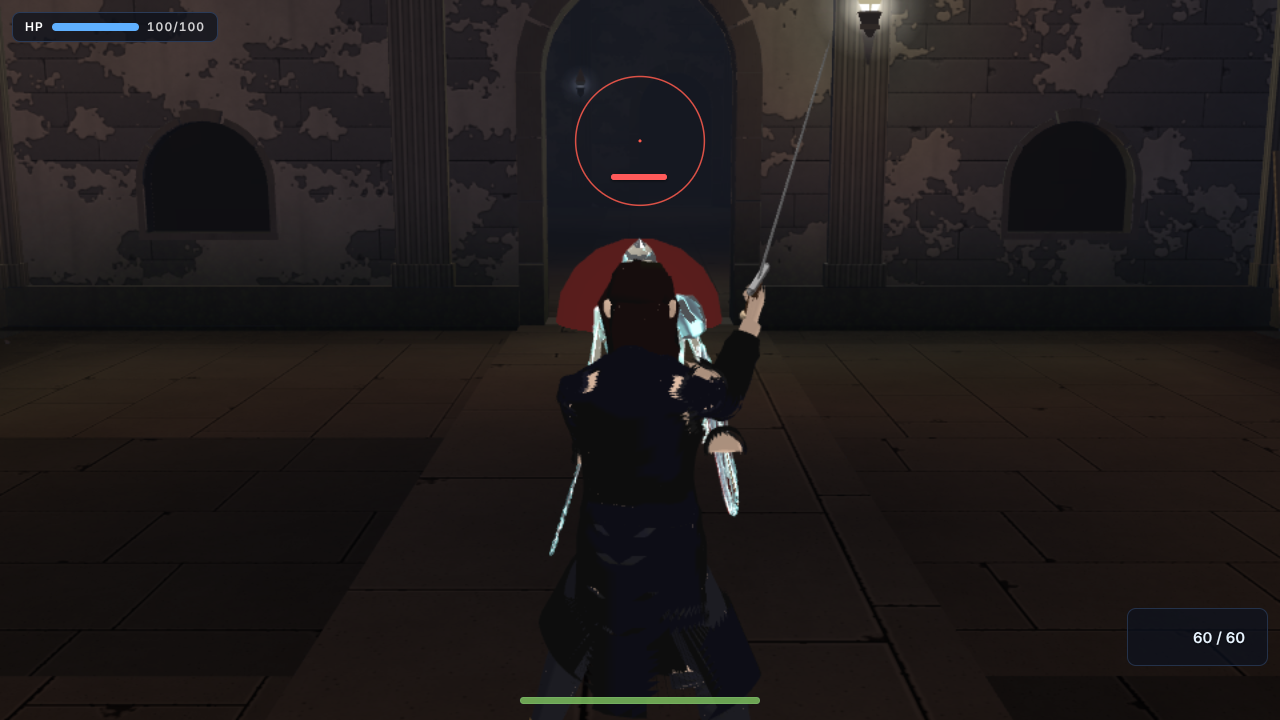
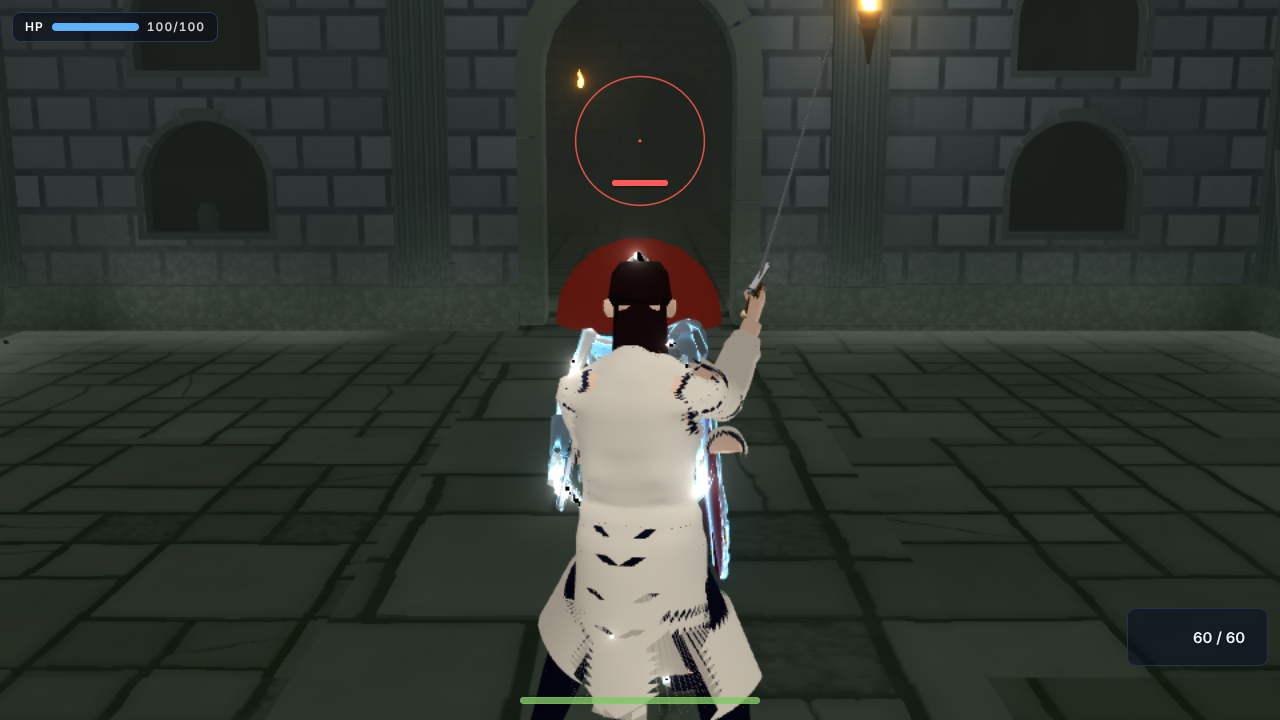
A fourth sword art, wild; Fallen Angel in gen-7 with Lucien's pale coat
wild: a brawler with a blade, the anime sword's reach with none of its composure (the hips spun
past the pass-through, the weight and the off arm thrown furthest, the anticipation and the
finish held least), held to the laws every art keeps. The Fallen Angel example's citadel is
dressed by a gothic night cube read in gen-7 on the ashlar bones, Lucien's coat is pale against
the dark, and his kit is the template's swung wild.

Claude-Session: https://claude.ai/code/session_01TGh5DzdiWrkt6rK5jhLNiC

diff --git a/control/lib/graph/polygonizer/hero-swing-body.test.js b/control/lib/graph/polygonizer/hero-swing-body.test.js
@@ -293,8 +293,11 @@ describe('the sword arts', () => {
     return { nodes, grip: P(g.sockets.grip.origin), end: P(g.sockets.tip?.origin || g.sockets.focal?.origin), head: [0, 1, 2].map((k) => (nodes.headBase[k] + nodes.headTop[k]) / 2) };
   };
   const cases = [['chop', 'sword', 'normal'], ['rising', 'sword', 'normal'], ['cleave', 'greatsword', 'heavy']];
-  it('names its registers', () => expect(SWORD_ARTS).toEqual(['realistic', 'inspired', 'freestyle']));
-  for (const art of ['inspired', 'freestyle']) for (const [word, item, cls] of cases) {
+  it('names its registers', () => expect(SWORD_ARTS).toEqual(['realistic', 'inspired', 'freestyle', 'wild']));
+  // (every art is held to the laws: a new register is a new style, and a style can break a leg's reach or take the blade
+  // through the head)
+  const ARTS_HELD = SWORD_ARTS.filter((a) => a !== 'realistic');
+  for (const art of ARTS_HELD) for (const [word, item, cls] of cases) {
     it(`${art} ${word}: every key's legs reach, the blade clear of the head and the floor`, () => {
       const hero = heroOf(item), R = validateRig(expandLayeredManifest({ kind: 'layered', hero }).recipe.rig), [g] = gearMounts(hero, R);
       const keys = swingBody(word, cls, swingClipKeys(word, cls, { base: STRUCTURED_SWING_BASE }), R, rigNodesAt, art);
@@ -312,7 +315,7 @@ describe('the sword arts', () => {
   }
   // (and between the keys: an art's clip, eased through its held anticipation and its fast cut, keeps the blade off the
   // head and out of the floor at every sample; one forehand, the two-handed cleave, the low upswing)
-  for (const art of ['inspired', 'freestyle']) it(`${art}: the blade clear of the head and above the floor all through its clips`, () => {
+  for (const art of ARTS_HELD) it(`${art}: the blade clear of the head and above the floor all through its clips`, () => {
     const hero = heroOf('sword'), R = validateRig(expandLayeredManifest({ kind: 'layered', hero }).recipe.rig), [g] = gearMounts(hero, R);
     const M = lowerCombos(BASIC_COMBOS), ctx = { R, cls: 'normal', base: STRUCTURED_SWING_BASE, grip: [], own: 'chop', body: true, style: art, timing: artTiming('normal', art), contact: CONTACT, layeredClip, rigNodesAt, plantedFoot, swingClipKeys, fitSwing, swingPhases, HELD_SWINGS: MOVE_SWINGS };
     for (const id of ['cut-1', 'cleave', 'launcher']) {
@@ -338,7 +341,7 @@ describe('the sword arts', () => {
     expect(followOf('inspired').facing).toBeLessThan(followOf('freestyle').facing);
   });
   it('the timing holds the anticipation at the cock and the finish at the follow-through, the strike inside its window', () => {
-    for (const art of ['inspired', 'freestyle']) {
+    for (const art of ARTS_HELD) {
       const T = artTiming('normal', art), N = 6;
       expect(T.strike).toBeGreaterThan(T.window[0]);
       expect(T.strike).toBeLessThan(T.window[1]);

diff --git a/control/lib/graph/polygonizer/hero-swing-body.js b/control/lib/graph/polygonizer/hero-swing-body.js
@@ -68,9 +68,22 @@ export const SWING_STYLES = Object.freeze({
       backhand: { ready: { facing: -20, w: 0 }, coil: { facing: 26, w: -0.05 }, cock: { facing: 52, w: -0.09 }, load: { facing: 58, w: -0.1 }, strike: { facing: -50, w: 0.13 }, follow: { facing: -82, w: 0.15 }, recover: { facing: -26, w: 0.05 } },
     }),
     timing: Object.freeze({ wind: 1.6, act: 0.22, after: 0.9, settle: 0.7, hold: Object.freeze({ light: 0.35, normal: 0.7, heavy: 1.3 }), finish: 2.0 }) }),
+  // WILD (a brawler with a blade: nothing held, everything thrown): the freestyle's reach with none of its composure. The
+  // blade is hauled furthest back and the whole body goes after it: the hips spun past the pass-through until the back is
+  // to the target, the weight thrown well off the feet, the off arm flung widest. The stance is wide and loose, standing
+  // taller than the anime sword's crouch, staggered long. The head goes with the body (the gaze barely kept). Its timing
+  // is its character: the anticipation barely held (it does not wait), the fastest cut, a long careless follow-through
+  // and the finish held under half as long as the anime sword's: the next swing is already coming. (An art holds its cock
+  // and its finish, the laws' floor; and its trunk bends less than the others', so a blade thrown this far stays off the floor.)
+  wild: Object.freeze({ stance: 2.5, stagger: 0.62, crouch: 0.08, wind: 2.5, after: 2.3, weight: 2.3, off: 3.0, raise: 172, bend: 14, extend: 0.9, gaze: 0.4,
+    turn: Object.freeze({
+      forehand: { ready: { facing: -24, w: 0 }, coil: { facing: -74, w: -0.08 }, cock: { facing: -68, w: -0.12 }, load: { facing: -76, w: -0.13 }, strike: { facing: 64, w: 0.18, heel: 44, pivot: 46 }, follow: { facing: 118, w: 0.21, heel: 56, pivot: 66 }, recover: { facing: 34, w: 0.08, heel: 22, pivot: 20 } },
+      backhand: { ready: { facing: -24, w: 0 }, coil: { facing: 34, w: -0.07 }, cock: { facing: 62, w: -0.11 }, load: { facing: 70, w: -0.12 }, strike: { facing: -62, w: 0.16 }, follow: { facing: -108, w: 0.19 }, recover: { facing: -34, w: 0.07 } },
+    }),
+    timing: Object.freeze({ wind: 1.3, act: 0.18, after: 1.3, settle: 0.6, hold: Object.freeze({ light: 0.15, normal: 0.4, heavy: 0.7 }), finish: 0.9 }) }),
 });
 /** the sword arts by name: `realistic` the game type's own swing (no art), the others the styles above */
-export const SWORD_ARTS = Object.freeze(['realistic', 'inspired', 'freestyle']);
+export const SWORD_ARTS = Object.freeze(['realistic', 'inspired', 'freestyle', 'wild']);
 export const SWING_BODY = Object.freeze({ phases: BODY_PHASES, turn: BODY_TURN, of: BODY_OF, offHand: OFF_HAND, styles: SWING_STYLES });
 /**
  * AN ART'S TIMING (its style's `timing`), as hero-swing.js swingTiming re-times a game type's: each key segment by its role

diff --git a/control/lib/graph/gameworld/combos.js b/control/lib/graph/gameworld/combos.js
@@ -52,7 +52,7 @@ export const TRAVEL = Object.freeze(['none', 'step', 'lunge', 'dash']);
 // THE SWORD ARTS (an arsenal's `art`: how its blades are swung, the clips baked in it; polygonizer/hero-swing-body.js
 // SWING_STYLES, docs/sword-arts.md): realistic (the game type's own swing, the default), inspired (real technique
 // performed for the camera), freestyle (the anime sword: anything goes)
-export const ARTS = Object.freeze(['realistic', 'inspired', 'freestyle']);
+export const ARTS = Object.freeze(['realistic', 'inspired', 'freestyle', 'wild']);
 export const SWINGS = Object.freeze(['neutral', 'forward', 'back', 'left', 'right', 'up', 'around']);
 /** the body strikes a move may play (hero-strike.js STRIKES, hero-box.js BOX_STRIKES): the fist's */
 export const STRIKES = Object.freeze(['jab', 'cross', 'hook', 'uppercut']);

diff --git a/docs/examples/fallen-angel/README.md b/docs/examples/fallen-angel/README.md
@@ -3,12 +3,14 @@
 A stylish action game made through `design_game`: Lucien fights through a citadel of the armed dead, room by room,
 to the knight in its sanctum. `world.json` is the whole recipe; everything else is made from it.
 
-- **The hero:** Lucien, on the realistic body (`form: 'realistic'`), long dark hair, a long dark coat open over
-  dark clothes, a sword in the right hand. The feel and the kit are the template's (`feel: 'fallen-angel'`,
-  `arsenal: 'auto'`): the sword and the fist, switched mid-string, the pistols.
+- **The hero:** Lucien, on the realistic body (`form: 'realistic'`), long dark hair, a long pale coat open over
+  dark clothes (the world is dark: the coat is what reads against it), a sword in the right hand. The feel is the
+  template's (`feel: 'fallen-angel'`) and the kit is its kit swung in the `wild` art
+  (`arsenal: { from: 'fallen-angel', art: 'wild' }`): the sword and the fist, switched mid-string, the pistols.
 - **The foes:** zombies and armed skeletons (the undead form library's): the slow dead, the armed skeleton, the
   archer, the armoured dead, the knight.
-- **The level:** the `citadel` building on the ashlar kit, four fights kept on the world (`fights`) and laid in
+- **The level:** the `citadel` building in a seventh-generation gothic cube (`geocube: { from: 'gothic-night',
+  era: 'gen-7', inside: { bones: 'gothic-ashlar' } }`), four fights kept on the world (`fights`) and laid in
   its rooms (`goal.tasks`): a duel in the gate court, a melee in the great hall, a gallery fight in the long
   gallery, the boss in the sanctum.
 - **Played as an action hero:** `camera: 'orbit'` (the orbit that locks on, the blade sheathed out of a fight) and
@@ -33,6 +35,7 @@ node scripts/mcp-stdio.mjs call export_game --json '{"ref":"<the ref>-game"}'   
 - The machine gate's playthrough: the floor player won the level in 122 s with 20 of 100 hp left, all 18 foes
   down; one who does nothing did not win.
 - The first frame's check warns that the hero is close to the camera (35% of the frame across).
-- The level's page is about 26 MB and loaded in headless Chromium with no page error.
+- The level's page is about 39 MB in `gen-7` (26 MB before the cube) and loaded in headless Chromium with no page
+  error.
 
 Nobody has played it. `gate-court.png` is one frame from that headless load, not a look anyone has judged.

diff --git a/docs/sword-arts.md b/docs/sword-arts.md
@@ -10,6 +10,7 @@ register (`gameworld/combos.js`, an arsenal's `art`), and its moveset's clips ar
 | `realistic` | the game type's own swing (the default): the realistic law, an economical arc, the elbow never over the head |
 | `inspired` | real technique performed for the camera: kenjutsu's and the long sword's chambers, a deep stance, a held finish |
 | `freestyle` | the anime sword: anything goes, the sword's weight and the stance's balance no law |
+| `wild` | a brawler with a blade: the freestyle's reach with none of its composure, nothing held, everything thrown |
 
 ## The study: what the realistic swing holds back
 
@@ -46,6 +47,13 @@ Each art is a style of the body layer (`SWING_STYLES.inspired`, `.freestyle`) an
 
 (Timing values are each segment's weight against the others; a move's own length and contact window stay the game's.)
 
+`wild` against `freestyle`, dial by dial: the wind-up and follow-through 2.5 and 2.3; the stance 2.5, standing
+taller (`crouch` +0.08) and staggered longer; the hips through the follow 118°, the back turned to the target; the
+weight thrown furthest (2.3); the off hand widest (3.0); the arm straightened 90 %; the gaze barely kept (40 %); the
+trunk's bend capped lower (14°), so a blade thrown that far stays off the floor. Its timing: the anticipation held
+0.4 (a normal cut), the cut 0.18, the finish held 0.9, under half the anime sword's. An art holds its cock and its
+finish at least a beat: the laws' floor, and the first tuning (no hold, a deeper bend) lost them.
+
 ## The laws each register keeps
 
 Every register, measured on the rig (`hero-swing-body.test.js`, "the sword arts"):
@@ -56,7 +64,7 @@ Every register, measured on the rig (`hero-swing-body.test.js`, "the sword arts"
 - the trunk's bend is capped (`bend`) so a deep blow's blade stays off the floor.
 
 `realistic` keeps the elbow under the shoulder line. `inspired` keeps a chamber's discipline: the elbow at most a
-forearm (25 cm) over it. `freestyle` keeps no elbow law.
+forearm (25 cm) over it. `freestyle` and `wild` keep no elbow law.
 
 ## Using one
 

diff --git a/control/changelog/1126/1115/stylish-action-rails.md b/control/changelog/1126/1115/stylish-action-rails.md
@@ -56,6 +56,13 @@ In progress. Built so far, all in the practice door's game room
   realistic body (long dark hair, a long dark coat), the five undead, the citadel, the game; the recipe and how
   to rebuild it are in [docs/examples/fallen-angel](../../../../docs/examples/fallen-angel/README.md). The door's
   own check played it: the floor player won, one who does nothing did not.
+- **Built: a fourth sword art, `wild`** (`polygonizer/hero-swing-body.js`): a brawler with a blade. The anime
+  sword's reach with none of its composure: the hips spun until the back is to the target, the weight and the off
+  arm thrown furthest, a taller, looser, longer stance, the anticipation and the finish held least, the cut
+  fastest. Held to the laws every art keeps (the legs reach, the blade clear of the head and the floor). Lucien's
+  kit is Fallen Angel's swung in it.
+- **Fallen Angel in the seventh generation:** its citadel is dressed by a gothic night cube read in `gen-7` on the
+  ashlar bones, and Lucien's coat is pale so he reads against the dark.
 - **A building level has its action hero.** A world played under the orbit camera with a hero that strikes now
   gets, in a building as on a trail, the orbit that locks on, movement in the camera's frame and its sheathed
   twin, so the fist is in its hands and the weapon switch has two weapons to switch between. Before, a building
